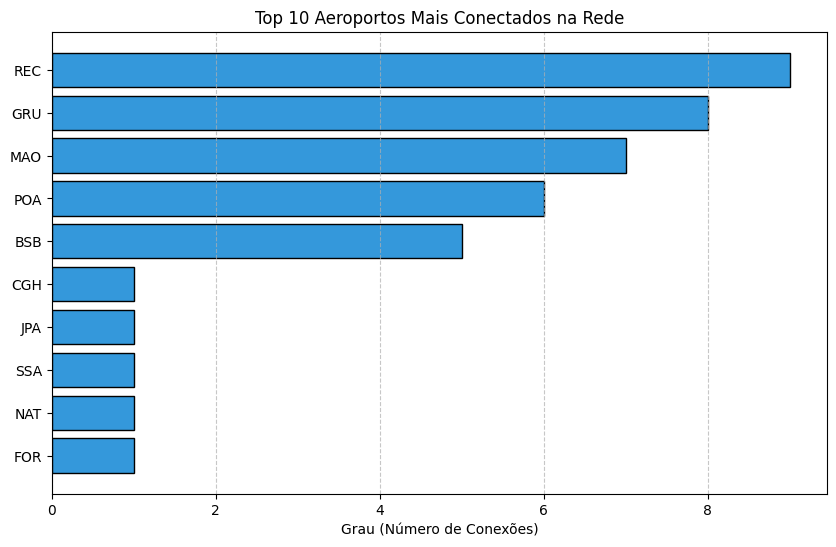
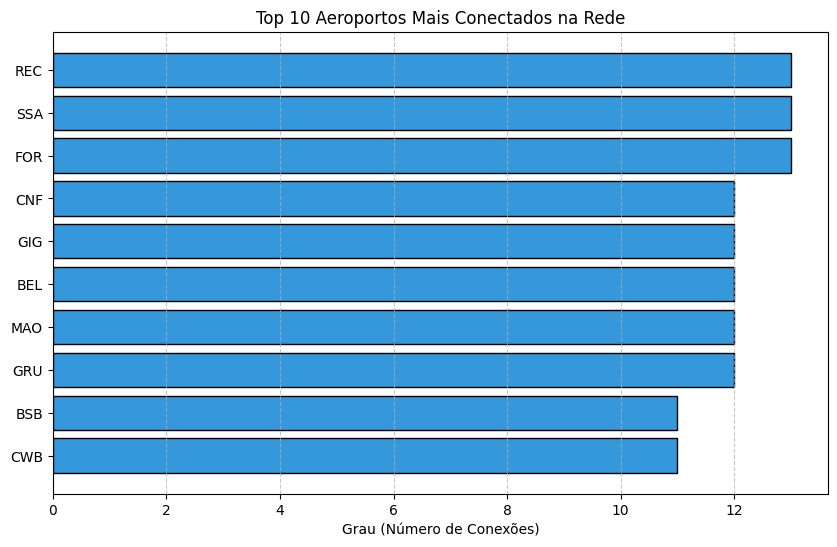
Ajuste para ter mais de um Hub por região
deixei o mais próximo da realidade da malha aérea brasileira

diff --git a/out/grafo_interativo.html b/out/grafo_interativo.html
@@ -353,8 +353,8 @@ function highlightFilter(filter) {
                   
 
                   // parsing and collecting nodes and edges from the python
-                  nodes = new vis.DataSet([{"color": "#e74c3c", "font": {"color": "white"}, "id": "REC", "label": "REC", "shape": "dot", "size": 38, "title": "Aeroporto: REC\nRegi\u00e3o: Nordeste\nConex\u00f5es: 9"}, {"color": "#e74c3c", "font": {"color": "white"}, "id": "SSA", "label": "SSA", "shape": "dot", "size": 22, "title": "Aeroporto: SSA\nRegi\u00e3o: Nordeste\nConex\u00f5es: 1"}, {"color": "#e74c3c", "font": {"color": "white"}, "id": "FOR", "label": "FOR", "shape": "dot", "size": 22, "title": "Aeroporto: FOR\nRegi\u00e3o: Nordeste\nConex\u00f5es: 1"}, {"color": "#e74c3c", "font": {"color": "white"}, "id": "NAT", "label": "NAT", "shape": "dot", "size": 22, "title": "Aeroporto: NAT\nRegi\u00e3o: Nordeste\nConex\u00f5es: 1"}, {"color": "#e74c3c", "font": {"color": "white"}, "id": "JPA", "label": "JPA", "shape": "dot", "size": 22, "title": "Aeroporto: JPA\nRegi\u00e3o: Nordeste\nConex\u00f5es: 1"}, {"color": "#3498db", "font": {"color": "white"}, "id": "GRU", "label": "GRU", "shape": "dot", "size": 36, "title": "Aeroporto: GRU\nRegi\u00e3o: Sudeste\nConex\u00f5es: 8"}, {"color": "#3498db", "font": {"color": "white"}, "id": "CGH", "label": "CGH", "shape": "dot", "size": 22, "title": "Aeroporto: CGH\nRegi\u00e3o: Sudeste\nConex\u00f5es: 1"}, {"color": "#3498db", "font": {"color": "white"}, "id": "GIG", "label": "GIG", "shape": "dot", "size": 22, "title": "Aeroporto: GIG\nRegi\u00e3o: Sudeste\nConex\u00f5es: 1"}, {"color": "#3498db", "font": {"color": "white"}, "id": "CNF", "label": "CNF", "shape": "dot", "size": 22, "title": "Aeroporto: CNF\nRegi\u00e3o: Sudeste\nConex\u00f5es: 1"}, {"color": "#3498db", "font": {"color": "white"}, "id": "VIX", "label": "VIX", "shape": "dot", "size": 22, "title": "Aeroporto: VIX\nRegi\u00e3o: Sudeste\nConex\u00f5es: 1"}, {"color": "#f1c40f", "font": {"color": "white"}, "id": "BSB", "label": "BSB", "shape": "dot", "size": 30, "title": "Aeroporto: BSB\nRegi\u00e3o: Centro-Oeste\nConex\u00f5es: 5"}, {"color": "#f1c40f", "font": {"color": "white"}, "id": "GYN", "label": "GYN", "shape": "dot", "size": 22, "title": "Aeroporto: GYN\nRegi\u00e3o: Centro-Oeste\nConex\u00f5es: 1"}, {"color": "#9b59b6", "font": {"color": "white"}, "id": "CWB", "label": "CWB", "shape": "dot", "size": 22, "title": "Aeroporto: CWB\nRegi\u00e3o: Sul\nConex\u00f5es: 1"}, {"color": "#9b59b6", "font": {"color": "white"}, "id": "FLN", "label": "FLN", "shape": "dot", "size": 22, "title": "Aeroporto: FLN\nRegi\u00e3o: Sul\nConex\u00f5es: 1"}, {"color": "#9b59b6", "font": {"color": "white"}, "id": "POA", "label": "POA", "shape": "dot", "size": 32, "title": "Aeroporto: POA\nRegi\u00e3o: Sul\nConex\u00f5es: 6"}, {"color": "#2ecc71", "font": {"color": "white"}, "id": "MAO", "label": "MAO", "shape": "dot", "size": 34, "title": "Aeroporto: MAO\nRegi\u00e3o: Norte\nConex\u00f5es: 7"}, {"color": "#2ecc71", "font": {"color": "white"}, "id": "BEL", "label": "BEL", "shape": "dot", "size": 22, "title": "Aeroporto: BEL\nRegi\u00e3o: Norte\nConex\u00f5es: 1"}, {"color": "#2ecc71", "font": {"color": "white"}, "id": "PVH", "label": "PVH", "shape": "dot", "size": 22, "title": "Aeroporto: PVH\nRegi\u00e3o: Norte\nConex\u00f5es: 1"}, {"color": "#2ecc71", "font": {"color": "white"}, "id": "RBR", "label": "RBR", "shape": "dot", "size": 22, "title": "Aeroporto: RBR\nRegi\u00e3o: Norte\nConex\u00f5es: 1"}, {"color": "#e74c3c", "font": {"color": "white"}, "id": "THE", "label": "THE", "shape": "dot", "size": 22, "title": "Aeroporto: THE\nRegi\u00e3o: Nordeste\nConex\u00f5es: 1"}]);
-                  edges = new vis.DataSet([{"arrows": "to", "color": "#555555", "from": "REC", "title": "675.29 km", "to": "SSA", "width": 1.5}, {"arrows": "to", "color": "#555555", "from": "REC", "title": "628.71 km", "to": "FOR", "width": 1.5}, {"arrows": "to", "color": "#555555", "from": "REC", "title": "253.3 km", "to": "NAT", "width": 1.5}, {"arrows": "to", "color": "#555555", "from": "REC", "title": "104.42 km", "to": "JPA", "width": 1.5}, {"arrows": "to", "color": "#555555", "from": "REC", "title": "934.34 km", "to": "THE", "width": 1.5}, {"arrows": "to", "color": "#555555", "from": "REC", "title": "2121.28 km", "to": "GRU", "width": 1.5}, {"arrows": "to", "color": "#555555", "from": "REC", "title": "2977.83 km", "to": "POA", "width": 1.5}, {"arrows": "to", "color": "#555555", "from": "REC", "title": "2832.74 km", "to": "MAO", "width": 1.5}, {"arrows": "to", "color": "#555555", "from": "REC", "title": "1656.77 km", "to": "BSB", "width": 1.5}, {"arrows": "to", "color": "#555555", "from": "SSA", "title": "675.29 km", "to": "REC", "width": 1.5}, {"arrows": "to", "color": "#555555", "from": "FOR", "title": "628.71 km", "to": "REC", "width": 1.5}, {"arrows": "to", "color": "#555555", "from": "NAT", "title": "253.3 km", "to": "REC", "width": 1.5}, {"arrows": "to", "color": "#555555", "from": "JPA", "title": "104.42 km", "to": "REC", "width": 1.5}, {"arrows": "to", "color": "#555555", "from": "GRU", "title": "28.42 km", "to": "CGH", "width": 1.5}, {"arrows": "to", "color": "#555555", "from": "GRU", "title": "337.52 km", "to": "GIG", "width": 1.5}, {"arrows": "to", "color": "#555555", "from": "GRU", "title": "493.59 km", "to": "CNF", "width": 1.5}, {"arrows": "to", "color": "#555555", "from": "GRU", "title": "743.68 km", "to": "VIX", "width": 1.5}, {"arrows": "to", "color": "#555555", "from": "GRU", "title": "2121.28 km", "to": "REC", "width": 1.5}, {"arrows": "to", "color": "#555555", "from": "GRU", "title": "852.54 km", "to": "POA", "width": 1.5}, {"arrows": "to", "color": "#555555", "from": "GRU", "title": "2689.83 km", "to": "MAO", "width": 1.5}, {"arrows": "to", "color": "#555555", "from": "GRU", "title": "855.33 km", "to": "BSB", "width": 1.5}, {"arrows": "to", "color": "#555555", "from": "CGH", "title": "28.42 km", "to": "GRU", "width": 1.5}, {"arrows": "to", "color": "#555555", "from": "GIG", "title": "337.52 km", "to": "GRU", "width": 1.5}, {"arrows": "to", "color": "#555555", "from": "CNF", "title": "493.59 km", "to": "GRU", "width": 1.5}, {"arrows": "to", "color": "#555555", "from": "VIX", "title": "743.68 km", "to": "GRU", "width": 1.5}, {"arrows": "to", "color": "#555555", "from": "BSB", "title": "164.71 km", "to": "GYN", "width": 1.5}, {"arrows": "to", "color": "#555555", "from": "BSB", "title": "1656.77 km", "to": "REC", "width": 1.5}, {"arrows": "to", "color": "#555555", "from": "BSB", "title": "855.33 km", "to": "GRU", "width": 1.5}, {"arrows": "to", "color": "#555555", "from": "BSB", "title": "1614.93 km", "to": "POA", "width": 1.5}, {"arrows": "to", "color": "#555555", "from": "BSB", "title": "1932.18 km", "to": "MAO", "width": 1.5}, {"arrows": "to", "color": "#555555", "from": "GYN", "title": "164.71 km", "to": "BSB", "width": 1.5}, {"arrows": "to", "color": "#555555", "from": "CWB", "title": "546.96 km", "to": "POA", "width": 1.5}, {"arrows": "to", "color": "#555555", "from": "FLN", "title": "365.17 km", "to": "POA", "width": 1.5}, {"arrows": "to", "color": "#555555", "from": "POA", "title": "546.96 km", "to": "CWB", "width": 1.5}, {"arrows": "to", "color": "#555555", "from": "POA", "title": "365.17 km", "to": "FLN", "width": 1.5}, {"arrows": "to", "color": "#555555", "from": "POA", "title": "2977.83 km", "to": "REC", "width": 1.5}, {"arrows": "to", "color": "#555555", "from": "POA", "title": "852.54 km", "to": "GRU", "width": 1.5}, {"arrows": "to", "color": "#555555", "from": "POA", "title": "3143.64 km", "to": "MAO", "width": 1.5}, {"arrows": "to", "color": "#555555", "from": "POA", "title": "1614.93 km", "to": "BSB", "width": 1.5}, {"arrows": "to", "color": "#555555", "from": "MAO", "title": "1292.35 km", "to": "BEL", "width": 1.5}, {"arrows": "to", "color": "#555555", "from": "MAO", "title": "761.34 km", "to": "PVH", "width": 1.5}, {"arrows": "to", "color": "#555555", "from": "MAO", "title": "1148.97 km", "to": "RBR", "width": 1.5}, {"arrows": "to", "color": "#555555", "from": "MAO", "title": "2832.74 km", "to": "REC", "width": 1.5}, {"arrows": "to", "color": "#555555", "from": "MAO", "title": "2689.83 km", "to": "GRU", "width": 1.5}, {"arrows": "to", "color": "#555555", "from": "MAO", "title": "3143.64 km", "to": "POA", "width": 1.5}, {"arrows": "to", "color": "#555555", "from": "MAO", "title": "1932.18 km", "to": "BSB", "width": 1.5}, {"arrows": "to", "color": "#555555", "from": "BEL", "title": "1292.35 km", "to": "MAO", "width": 1.5}, {"arrows": "to", "color": "#555555", "from": "PVH", "title": "761.34 km", "to": "MAO", "width": 1.5}, {"arrows": "to", "color": "#555555", "from": "RBR", "title": "1148.97 km", "to": "MAO", "width": 1.5}, {"arrows": "to", "color": "#555555", "from": "THE", "title": "934.34 km", "to": "REC", "width": 1.5}]);
+                  nodes = new vis.DataSet([{"color": "#e74c3c", "font": {"color": "white"}, "id": "REC", "label": "REC", "shape": "dot", "size": 46, "title": "Aeroporto: REC\nRegi\u00e3o: Nordeste\nConex\u00f5es: 13"}, {"color": "#e74c3c", "font": {"color": "white"}, "id": "SSA", "label": "SSA", "shape": "dot", "size": 46, "title": "Aeroporto: SSA\nRegi\u00e3o: Nordeste\nConex\u00f5es: 13"}, {"color": "#e74c3c", "font": {"color": "white"}, "id": "FOR", "label": "FOR", "shape": "dot", "size": 46, "title": "Aeroporto: FOR\nRegi\u00e3o: Nordeste\nConex\u00f5es: 13"}, {"color": "#e74c3c", "font": {"color": "white"}, "id": "NAT", "label": "NAT", "shape": "dot", "size": 26, "title": "Aeroporto: NAT\nRegi\u00e3o: Nordeste\nConex\u00f5es: 3"}, {"color": "#e74c3c", "font": {"color": "white"}, "id": "JPA", "label": "JPA", "shape": "dot", "size": 26, "title": "Aeroporto: JPA\nRegi\u00e3o: Nordeste\nConex\u00f5es: 3"}, {"color": "#3498db", "font": {"color": "white"}, "id": "GRU", "label": "GRU", "shape": "dot", "size": 44, "title": "Aeroporto: GRU\nRegi\u00e3o: Sudeste\nConex\u00f5es: 12"}, {"color": "#3498db", "font": {"color": "white"}, "id": "CGH", "label": "CGH", "shape": "dot", "size": 26, "title": "Aeroporto: CGH\nRegi\u00e3o: Sudeste\nConex\u00f5es: 3"}, {"color": "#3498db", "font": {"color": "white"}, "id": "GIG", "label": "GIG", "shape": "dot", "size": 44, "title": "Aeroporto: GIG\nRegi\u00e3o: Sudeste\nConex\u00f5es: 12"}, {"color": "#3498db", "font": {"color": "white"}, "id": "CNF", "label": "CNF", "shape": "dot", "size": 44, "title": "Aeroporto: CNF\nRegi\u00e3o: Sudeste\nConex\u00f5es: 12"}, {"color": "#3498db", "font": {"color": "white"}, "id": "VIX", "label": "VIX", "shape": "dot", "size": 26, "title": "Aeroporto: VIX\nRegi\u00e3o: Sudeste\nConex\u00f5es: 3"}, {"color": "#f1c40f", "font": {"color": "white"}, "id": "BSB", "label": "BSB", "shape": "dot", "size": 42, "title": "Aeroporto: BSB\nRegi\u00e3o: Centro-Oeste\nConex\u00f5es: 11"}, {"color": "#f1c40f", "font": {"color": "white"}, "id": "GYN", "label": "GYN", "shape": "dot", "size": 22, "title": "Aeroporto: GYN\nRegi\u00e3o: Centro-Oeste\nConex\u00f5es: 1"}, {"color": "#9b59b6", "font": {"color": "white"}, "id": "CWB", "label": "CWB", "shape": "dot", "size": 42, "title": "Aeroporto: CWB\nRegi\u00e3o: Sul\nConex\u00f5es: 11"}, {"color": "#9b59b6", "font": {"color": "white"}, "id": "FLN", "label": "FLN", "shape": "dot", "size": 24, "title": "Aeroporto: FLN\nRegi\u00e3o: Sul\nConex\u00f5es: 2"}, {"color": "#9b59b6", "font": {"color": "white"}, "id": "POA", "label": "POA", "shape": "dot", "size": 42, "title": "Aeroporto: POA\nRegi\u00e3o: Sul\nConex\u00f5es: 11"}, {"color": "#2ecc71", "font": {"color": "white"}, "id": "MAO", "label": "MAO", "shape": "dot", "size": 44, "title": "Aeroporto: MAO\nRegi\u00e3o: Norte\nConex\u00f5es: 12"}, {"color": "#2ecc71", "font": {"color": "white"}, "id": "BEL", "label": "BEL", "shape": "dot", "size": 44, "title": "Aeroporto: BEL\nRegi\u00e3o: Norte\nConex\u00f5es: 12"}, {"color": "#2ecc71", "font": {"color": "white"}, "id": "PVH", "label": "PVH", "shape": "dot", "size": 24, "title": "Aeroporto: PVH\nRegi\u00e3o: Norte\nConex\u00f5es: 2"}, {"color": "#2ecc71", "font": {"color": "white"}, "id": "RBR", "label": "RBR", "shape": "dot", "size": 24, "title": "Aeroporto: RBR\nRegi\u00e3o: Norte\nConex\u00f5es: 2"}, {"color": "#e74c3c", "font": {"color": "white"}, "id": "THE", "label": "THE", "shape": "dot", "size": 26, "title": "Aeroporto: THE\nRegi\u00e3o: Nordeste\nConex\u00f5es: 3"}]);
+                  edges = new vis.DataSet([{"arrows": "to", "color": "#555555", "from": "REC", "title": "266.71 km", "to": "NAT", "width": 1.5}, {"arrows": "to", "color": "#555555", "from": "REC", "title": "108.83 km", "to": "JPA", "width": 1.5}, {"arrows": "to", "color": "#555555", "from": "REC", "title": "936.95 km", "to": "THE", "width": 1.5}, {"arrows": "to", "color": "#555555", "from": "REC", "title": "2100.82 km", "to": "GRU", "width": 1.5}, {"arrows": "to", "color": "#555555", "from": "REC", "title": "649.46 km", "to": "SSA", "width": 1.5}, {"arrows": "to", "color": "#555555", "from": "REC", "title": "627.12 km", "to": "FOR", "width": 1.5}, {"arrows": "to", "color": "#555555", "from": "REC", "title": "1677.75 km", "to": "BEL", "width": 1.5}, {"arrows": "to", "color": "#555555", "from": "REC", "title": "1859.22 km", "to": "GIG", "width": 1.5}, {"arrows": "to", "color": "#555555", "from": "REC", "title": "2453.9 km", "to": "CWB", "width": 1.5}, {"arrows": "to", "color": "#555555", "from": "REC", "title": "2836.85 km", "to": "MAO", "width": 1.5}, {"arrows": "to", "color": "#555555", "from": "REC", "title": "1607.74 km", "to": "CNF", "width": 1.5}, {"arrows": "to", "color": "#555555", "from": "REC", "title": "1654.1 km", "to": "BSB", "width": 1.5}, {"arrows": "to", "color": "#555555", "from": "REC", "title": "2962.75 km", "to": "POA", "width": 1.5}, {"arrows": "to", "color": "#555555", "from": "SSA", "title": "858.17 km", "to": "NAT", "width": 1.5}, {"arrows": "to", "color": "#555555", "from": "SSA", "title": "739.98 km", "to": "JPA", "width": 1.5}, {"arrows": "to", "color": "#555555", "from": "SSA", "title": "1002.66 km", "to": "THE", "width": 1.5}, {"arrows": "to", "color": "#555555", "from": "SSA", "title": "1451.36 km", "to": "GRU", "width": 1.5}, {"arrows": "to", "color": "#555555", "from": "SSA", "title": "1016.0 km", "to": "FOR", "width": 1.5}, {"arrows": "to", "color": "#555555", "from": "SSA", "title": "1700.28 km", "to": "BEL", "width": 1.5}, {"arrows": "to", "color": "#555555", "from": "SSA", "title": "1217.24 km", "to": "GIG", "width": 1.5}, {"arrows": "to", "color": "#555555", "from": "SSA", "title": "1804.74 km", "to": "CWB", "width": 1.5}, {"arrows": "to", "color": "#555555", "from": "SSA", "title": "2628.74 km", "to": "MAO", "width": 1.5}, {"arrows": "to", "color": "#555555", "from": "SSA", "title": "649.46 km", "to": "REC", "width": 1.5}, {"arrows": "to", "color": "#555555", "from": "SSA", "title": "958.74 km", "to": "CNF", "width": 1.5}, {"arrows": "to", "color": "#555555", "from": "SSA", "title": "1083.74 km", "to": "BSB", "width": 1.5}, {"arrows": "to", "color": "#555555", "from": "SSA", "title": "2313.79 km", "to": "POA", "width": 1.5}, {"arrows": "to", "color": "#555555", "from": "FOR", "title": "414.93 km", "to": "NAT", "width": 1.5}, {"arrows": "to", "color": "#555555", "from": "FOR", "title": "545.68 km", "to": "JPA", "width": 1.5}, {"arrows": "to", "color": "#555555", "from": "FOR", "title": "496.78 km", "to": "THE", "width": 1.5}, {"arrows": "to", "color": "#555555", "from": "FOR", "title": "2346.62 km", "to": "GRU", "width": 1.5}, {"arrows": "to", "color": "#555555", "from": "FOR", "title": "1016.0 km", "to": "SSA", "width": 1.5}, {"arrows": "to", "color": "#555555", "from": "FOR", "title": "1136.08 km", "to": "BEL", "width": 1.5}, {"arrows": "to", "color": "#555555", "from": "FOR", "title": "2176.55 km", "to": "GIG", "width": 1.5}, {"arrows": "to", "color": "#555555", "from": "FOR", "title": "2672.63 km", "to": "CWB", "width": 1.5}, {"arrows": "to", "color": "#555555", "from": "FOR", "title": "2390.01 km", "to": "MAO", "width": 1.5}, {"arrows": "to", "color": "#555555", "from": "FOR", "title": "627.12 km", "to": "REC", "width": 1.5}, {"arrows": "to", "color": "#555555", "from": "FOR", "title": "1858.44 km", "to": "CNF", "width": 1.5}, {"arrows": "to", "color": "#555555", "from": "FOR", "title": "1691.78 km", "to": "BSB", "width": 1.5}, {"arrows": "to", "color": "#555555", "from": "FOR", "title": "3204.09 km", "to": "POA", "width": 1.5}, {"arrows": "to", "color": "#555555", "from": "NAT", "title": "266.71 km", "to": "REC", "width": 1.5}, {"arrows": "to", "color": "#555555", "from": "NAT", "title": "858.17 km", "to": "SSA", "width": 1.5}, {"arrows": "to", "color": "#555555", "from": "NAT", "title": "414.93 km", "to": "FOR", "width": 1.5}, {"arrows": "to", "color": "#555555", "from": "JPA", "title": "108.83 km", "to": "REC", "width": 1.5}, {"arrows": "to", "color": "#555555", "from": "JPA", "title": "739.98 km", "to": "SSA", "width": 1.5}, {"arrows": "to", "color": "#555555", "from": "JPA", "title": "545.68 km", "to": "FOR", "width": 1.5}, {"arrows": "to", "color": "#555555", "from": "GRU", "title": "28.26 km", "to": "CGH", "width": 1.5}, {"arrows": "to", "color": "#555555", "from": "GRU", "title": "729.6 km", "to": "VIX", "width": 1.5}, {"arrows": "to", "color": "#555555", "from": "GRU", "title": "1451.36 km", "to": "SSA", "width": 1.5}, {"arrows": "to", "color": "#555555", "from": "GRU", "title": "2346.62 km", "to": "FOR", "width": 1.5}, {"arrows": "to", "color": "#555555", "from": "GRU", "title": "2461.43 km", "to": "BEL", "width": 1.5}, {"arrows": "to", "color": "#555555", "from": "GRU", "title": "336.79 km", "to": "GIG", "width": 1.5}, {"arrows": "to", "color": "#555555", "from": "GRU", "title": "358.95 km", "to": "CWB", "width": 1.5}, {"arrows": "to", "color": "#555555", "from": "GRU", "title": "2697.86 km", "to": "MAO", "width": 1.5}, {"arrows": "to", "color": "#555555", "from": "GRU", "title": "2100.82 km", "to": "REC", "width": 1.5}, {"arrows": "to", "color": "#555555", "from": "GRU", "title": "496.46 km", "to": "CNF", "width": 1.5}, {"arrows": "to", "color": "#555555", "from": "GRU", "title": "854.8 km", "to": "BSB", "width": 1.5}, {"arrows": "to", "color": "#555555", "from": "GRU", "title": "865.52 km", "to": "POA", "width": 1.5}, {"arrows": "to", "color": "#555555", "from": "CGH", "title": "28.26 km", "to": "GRU", "width": 1.5}, {"arrows": "to", "color": "#555555", "from": "CGH", "title": "359.67 km", "to": "GIG", "width": 1.5}, {"arrows": "to", "color": "#555555", "from": "CGH", "title": "524.36 km", "to": "CNF", "width": 1.5}, {"arrows": "to", "color": "#555555", "from": "GIG", "title": "359.67 km", "to": "CGH", "width": 1.5}, {"arrows": "to", "color": "#555555", "from": "GIG", "title": "417.72 km", "to": "VIX", "width": 1.5}, {"arrows": "to", "color": "#555555", "from": "GIG", "title": "336.79 km", "to": "GRU", "width": 1.5}, {"arrows": "to", "color": "#555555", "from": "GIG", "title": "1217.24 km", "to": "SSA", "width": 1.5}, {"arrows": "to", "color": "#555555", "from": "GIG", "title": "2176.55 km", "to": "FOR", "width": 1.5}, {"arrows": "to", "color": "#555555", "from": "GIG", "title": "2448.32 km", "to": "BEL", "width": 1.5}, {"arrows": "to", "color": "#555555", "from": "GIG", "title": "672.38 km", "to": "CWB", "width": 1.5}, {"arrows": "to", "color": "#555555", "from": "GIG", "title": "2847.97 km", "to": "MAO", "width": 1.5}, {"arrows": "to", "color": "#555555", "from": "GIG", "title": "1859.22 km", "to": "REC", "width": 1.5}, {"arrows": "to", "color": "#555555", "from": "GIG", "title": "362.03 km", "to": "CNF", "width": 1.5}, {"arrows": "to", "color": "#555555", "from": "GIG", "title": "913.92 km", "to": "BSB", "width": 1.5}, {"arrows": "to", "color": "#555555", "from": "GIG", "title": "1121.96 km", "to": "POA", "width": 1.5}, {"arrows": "to", "color": "#555555", "from": "CNF", "title": "524.36 km", "to": "CGH", "width": 1.5}, {"arrows": "to", "color": "#555555", "from": "CNF", "title": "391.62 km", "to": "VIX", "width": 1.5}, {"arrows": "to", "color": "#555555", "from": "CNF", "title": "496.46 km", "to": "GRU", "width": 1.5}, {"arrows": "to", "color": "#555555", "from": "CNF", "title": "958.74 km", "to": "SSA", "width": 1.5}, {"arrows": "to", "color": "#555555", "from": "CNF", "title": "1858.44 km", "to": "FOR", "width": 1.5}, {"arrows": "to", "color": "#555555", "from": "CNF", "title": "2086.55 km", "to": "BEL", "width": 1.5}, {"arrows": "to", "color": "#555555", "from": "CNF", "title": "362.03 km", "to": "GIG", "width": 1.5}, {"arrows": "to", "color": "#555555", "from": "CNF", "title": "846.18 km", "to": "CWB", "width": 1.5}, {"arrows": "to", "color": "#555555", "from": "CNF", "title": "2539.9 km", "to": "MAO", "width": 1.5}, {"arrows": "to", "color": "#555555", "from": "CNF", "title": "1607.74 km", "to": "REC", "width": 1.5}, {"arrows": "to", "color": "#555555", "from": "CNF", "title": "590.86 km", "to": "BSB", "width": 1.5}, {"arrows": "to", "color": "#555555", "from": "CNF", "title": "1361.98 km", "to": "POA", "width": 1.5}, {"arrows": "to", "color": "#555555", "from": "VIX", "title": "729.6 km", "to": "GRU", "width": 1.5}, {"arrows": "to", "color": "#555555", "from": "VIX", "title": "417.72 km", "to": "GIG", "width": 1.5}, {"arrows": "to", "color": "#555555", "from": "VIX", "title": "391.62 km", "to": "CNF", "width": 1.5}, {"arrows": "to", "color": "#555555", "from": "BSB", "title": "162.62 km", "to": "GYN", "width": 1.5}, {"arrows": "to", "color": "#555555", "from": "BSB", "title": "854.8 km", "to": "GRU", "width": 1.5}, {"arrows": "to", "color": "#555555", "from": "BSB", "title": "1083.74 km", "to": "SSA", "width": 1.5}, {"arrows": "to", "color": "#555555", "from": "BSB", "title": "1691.78 km", "to": "FOR", "width": 1.5}, {"arrows": "to", "color": "#555555", "from": "BSB", "title": "1611.81 km", "to": "BEL", "width": 1.5}, {"arrows": "to", "color": "#555555", "from": "BSB", "title": "913.92 km", "to": "GIG", "width": 1.5}, {"arrows": "to", "color": "#555555", "from": "BSB", "title": "1082.28 km", "to": "CWB", "width": 1.5}, {"arrows": "to", "color": "#555555", "from": "BSB", "title": "1949.05 km", "to": "MAO", "width": 1.5}, {"arrows": "to", "color": "#555555", "from": "BSB", "title": "1654.1 km", "to": "REC", "width": 1.5}, {"arrows": "to", "color": "#555555", "from": "BSB", "title": "590.86 km", "to": "CNF", "width": 1.5}, {"arrows": "to", "color": "#555555", "from": "BSB", "title": "1605.15 km", "to": "POA", "width": 1.5}, {"arrows": "to", "color": "#555555", "from": "GYN", "title": "162.62 km", "to": "BSB", "width": 1.5}, {"arrows": "to", "color": "#555555", "from": "CWB", "title": "245.47 km", "to": "FLN", "width": 1.5}, {"arrows": "to", "color": "#555555", "from": "CWB", "title": "358.95 km", "to": "GRU", "width": 1.5}, {"arrows": "to", "color": "#555555", "from": "CWB", "title": "1804.74 km", "to": "SSA", "width": 1.5}, {"arrows": "to", "color": "#555555", "from": "CWB", "title": "2672.63 km", "to": "FOR", "width": 1.5}, {"arrows": "to", "color": "#555555", "from": "CWB", "title": "2686.16 km", "to": "BEL", "width": 1.5}, {"arrows": "to", "color": "#555555", "from": "CWB", "title": "672.38 km", "to": "GIG", "width": 1.5}, {"arrows": "to", "color": "#555555", "from": "CWB", "title": "2758.85 km", "to": "MAO", "width": 1.5}, {"arrows": "to", "color": "#555555", "from": "CWB", "title": "2453.9 km", "to": "REC", "width": 1.5}, {"arrows": "to", "color": "#555555", "from": "CWB", "title": "846.18 km", "to": "CNF", "width": 1.5}, {"arrows": "to", "color": "#555555", "from": "CWB", "title": "1082.28 km", "to": "BSB", "width": 1.5}, {"arrows": "to", "color": "#555555", "from": "CWB", "title": "533.68 km", "to": "POA", "width": 1.5}, {"arrows": "to", "color": "#555555", "from": "FLN", "title": "363.06 km", "to": "POA", "width": 1.5}, {"arrows": "to", "color": "#555555", "from": "FLN", "title": "245.47 km", "to": "CWB", "width": 1.5}, {"arrows": "to", "color": "#555555", "from": "POA", "title": "363.06 km", "to": "FLN", "width": 1.5}, {"arrows": "to", "color": "#555555", "from": "POA", "title": "865.52 km", "to": "GRU", "width": 1.5}, {"arrows": "to", "color": "#555555", "from": "POA", "title": "2313.79 km", "to": "SSA", "width": 1.5}, {"arrows": "to", "color": "#555555", "from": "POA", "title": "3204.09 km", "to": "FOR", "width": 1.5}, {"arrows": "to", "color": "#555555", "from": "POA", "title": "3193.92 km", "to": "BEL", "width": 1.5}, {"arrows": "to", "color": "#555555", "from": "POA", "title": "1121.96 km", "to": "GIG", "width": 1.5}, {"arrows": "to", "color": "#555555", "from": "POA", "title": "533.68 km", "to": "CWB", "width": 1.5}, {"arrows": "to", "color": "#555555", "from": "POA", "title": "3140.19 km", "to": "MAO", "width": 1.5}, {"arrows": "to", "color": "#555555", "from": "POA", "title": "2962.75 km", "to": "REC", "width": 1.5}, {"arrows": "to", "color": "#555555", "from": "POA", "title": "1361.98 km", "to": "CNF", "width": 1.5}, {"arrows": "to", "color": "#555555", "from": "POA", "title": "1605.15 km", "to": "BSB", "width": 1.5}, {"arrows": "to", "color": "#555555", "from": "MAO", "title": "761.11 km", "to": "PVH", "width": 1.5}, {"arrows": "to", "color": "#555555", "from": "MAO", "title": "1152.31 km", "to": "RBR", "width": 1.5}, {"arrows": "to", "color": "#555555", "from": "MAO", "title": "2697.86 km", "to": "GRU", "width": 1.5}, {"arrows": "to", "color": "#555555", "from": "MAO", "title": "2628.74 km", "to": "SSA", "width": 1.5}, {"arrows": "to", "color": "#555555", "from": "MAO", "title": "2390.01 km", "to": "FOR", "width": 1.5}, {"arrows": "to", "color": "#555555", "from": "MAO", "title": "1299.19 km", "to": "BEL", "width": 1.5}, {"arrows": "to", "color": "#555555", "from": "MAO", "title": "2847.97 km", "to": "GIG", "width": 1.5}, {"arrows": "to", "color": "#555555", "from": "MAO", "title": "2758.85 km", "to": "CWB", "width": 1.5}, {"arrows": "to", "color": "#555555", "from": "MAO", "title": "2836.85 km", "to": "REC", "width": 1.5}, {"arrows": "to", "color": "#555555", "from": "MAO", "title": "2539.9 km", "to": "CNF", "width": 1.5}, {"arrows": "to", "color": "#555555", "from": "MAO", "title": "1949.05 km", "to": "BSB", "width": 1.5}, {"arrows": "to", "color": "#555555", "from": "MAO", "title": "3140.19 km", "to": "POA", "width": 1.5}, {"arrows": "to", "color": "#555555", "from": "BEL", "title": "1891.36 km", "to": "PVH", "width": 1.5}, {"arrows": "to", "color": "#555555", "from": "BEL", "title": "2345.17 km", "to": "RBR", "width": 1.5}, {"arrows": "to", "color": "#555555", "from": "BEL", "title": "2461.43 km", "to": "GRU", "width": 1.5}, {"arrows": "to", "color": "#555555", "from": "BEL", "title": "1700.28 km", "to": "SSA", "width": 1.5}, {"arrows": "to", "color": "#555555", "from": "BEL", "title": "1136.08 km", "to": "FOR", "width": 1.5}, {"arrows": "to", "color": "#555555", "from": "BEL", "title": "2448.32 km", "to": "GIG", "width": 1.5}, {"arrows": "to", "color": "#555555", "from": "BEL", "title": "2686.16 km", "to": "CWB", "width": 1.5}, {"arrows": "to", "color": "#555555", "from": "BEL", "title": "1299.19 km", "to": "MAO", "width": 1.5}, {"arrows": "to", "color": "#555555", "from": "BEL", "title": "1677.75 km", "to": "REC", "width": 1.5}, {"arrows": "to", "color": "#555555", "from": "BEL", "title": "2086.55 km", "to": "CNF", "width": 1.5}, {"arrows": "to", "color": "#555555", "from": "BEL", "title": "1611.81 km", "to": "BSB", "width": 1.5}, {"arrows": "to", "color": "#555555", "from": "BEL", "title": "3193.92 km", "to": "POA", "width": 1.5}, {"arrows": "to", "color": "#555555", "from": "PVH", "title": "761.11 km", "to": "MAO", "width": 1.5}, {"arrows": "to", "color": "#555555", "from": "PVH", "title": "1891.36 km", "to": "BEL", "width": 1.5}, {"arrows": "to", "color": "#555555", "from": "RBR", "title": "1152.31 km", "to": "MAO", "width": 1.5}, {"arrows": "to", "color": "#555555", "from": "RBR", "title": "2345.17 km", "to": "BEL", "width": 1.5}, {"arrows": "to", "color": "#555555", "from": "THE", "title": "936.95 km", "to": "REC", "width": 1.5}, {"arrows": "to", "color": "#555555", "from": "THE", "title": "1002.66 km", "to": "SSA", "width": 1.5}, {"arrows": "to", "color": "#555555", "from": "THE", "title": "496.78 km", "to": "FOR", "width": 1.5}]);
 
                   nodeColors = {};
                   allNodes = nodes.get({ returnType: "Object" });

diff --git a/out/arvore_percurso.html b/out/arvore_percurso.html
@@ -282,8 +282,8 @@ function highlightFilter(filter) {
                   
 
                   // parsing and collecting nodes and edges from the python
-                  nodes = new vis.DataSet([{"color": "#e74c3c", "font": {"color": "white"}, "id": "REC", "label": "REC", "shape": "dot", "size": 25, "title": "Regi\u00e3o: Nordeste"}, {"color": "#3498db", "font": {"color": "white"}, "id": "GRU", "label": "GRU", "shape": "dot", "size": 25, "title": "Regi\u00e3o: Sudeste"}, {"color": "#9b59b6", "font": {"color": "white"}, "id": "POA", "label": "POA", "shape": "dot", "size": 25, "title": "Regi\u00e3o: Sul"}, {"color": "#2ecc71", "font": {"color": "white"}, "id": "MAO", "label": "MAO", "shape": "dot", "size": 25, "title": "Regi\u00e3o: Norte"}]);
-                  edges = new vis.DataSet([{"arrows": "to", "color": "#27ae60", "from": "REC", "to": "GRU", "width": 4}, {"arrows": "to", "color": "#27ae60", "from": "GRU", "to": "POA", "width": 4}, {"arrows": "to", "color": "#3498db", "from": "MAO", "to": "GRU", "width": 4}]);
+                  nodes = new vis.DataSet([{"color": "#e74c3c", "font": {"color": "white"}, "id": "REC", "label": "REC", "shape": "dot", "size": 25, "title": "Regi\u00e3o: Nordeste"}, {"color": "#9b59b6", "font": {"color": "white"}, "id": "POA", "label": "POA", "shape": "dot", "size": 25, "title": "Regi\u00e3o: Sul"}, {"color": "#2ecc71", "font": {"color": "white"}, "id": "MAO", "label": "MAO", "shape": "dot", "size": 25, "title": "Regi\u00e3o: Norte"}, {"color": "#3498db", "font": {"color": "white"}, "id": "GRU", "label": "GRU", "shape": "dot", "size": 25, "title": "Regi\u00e3o: Sudeste"}]);
+                  edges = new vis.DataSet([{"arrows": "to", "color": "#27ae60", "from": "REC", "to": "POA", "width": 4}, {"arrows": "to", "color": "#3498db", "from": "MAO", "to": "GRU", "width": 4}]);
 
                   nodeColors = {};
                   allNodes = nodes.get({ returnType: "Object" });

diff --git a/src/graphs/io.py b/src/graphs/io.py
@@ -1,5 +1,81 @@
 import csv
+import math
 from src.graphs.graph import Graph
+
+# Coordenadas reais aproximadas (Lat, Lon) para calcular os pesos (km)
+COORDS = {
+    'REC': (-8.1267, -34.9230), 'SSA': (-12.9111, -38.3316), 'FOR': (-3.7761, -38.5322),
+    'NAT': (-5.7688, -35.3661), 'JPA': (-7.1483, -34.9502), 'THE': (-5.0594, -42.8244),
+    'GRU': (-23.4355, -46.4730), 'CGH': (-23.6261, -46.6564), 'GIG': (-22.8100, -43.2505),
+    'CNF': (-19.6244, -43.9719), 'VIX': (-20.2581, -40.2864), 'BSB': (-15.8697, -47.9208),
+    'GYN': (-16.6325, -49.2205), 'CWB': (-25.5327, -49.1699), 'FLN': (-27.6701, -48.5525),
+    'POA': (-29.9939, -51.1711), 'MAO': (-3.0358, -60.0519), 'BEL': (-1.3847, -48.4762),
+    'PVH': (-8.7136, -63.8966), 'RBR': (-9.8683, -67.8980)
+}
+
+# A nova definição exigida pela professora
+HUBS_POR_REGIAO = {
+    'Sudeste': ['GRU', 'GIG', 'CNF'],
+    'Centro-Oeste': ['BSB'],
+    'Nordeste': ['REC', 'SSA', 'FOR'],
+    'Sul': ['POA', 'CWB'],
+    'Norte': ['MAO', 'BEL']
+}
+TODOS_HUBS = {hub for hubs in HUBS_POR_REGIAO.values() for hub in hubs}
+
+def haversine(iata1, iata2):
+    """Calcula a distância em KM entre dois aeroportos."""
+    lat1, lon1 = COORDS[iata1]
+    lat2, lon2 = COORDS[iata2]
+    R = 6371.0 # Raio da Terra em KM
+    dlat, dlon = math.radians(lat2 - lat1), math.radians(lon2 - lon1)
+    a = math.sin(dlat/2)**2 + math.cos(math.radians(lat1)) * math.cos(math.radians(lat2)) * math.sin(dlon/2)**2
+    return round(2 * R * math.atan2(math.sqrt(a), math.sqrt(1 - a)), 2)
+
+def gerar_malha_csv(caminho_aeroportos='data/aeroportos_data.csv', caminho_saida='data/adjacencias_aeroportos.csv'):
+    aeroportos = []
+    with open(caminho_aeroportos, mode='r', encoding='utf-8') as f:
+        reader = csv.DictReader(f)
+        for row in reader:
+            aeroportos.append(row)
+
+    arestas = set()
+    dados_arestas = []
+
+    def add_aresta(o, d, tipo, just):
+        par = frozenset([o, d])
+        if par not in arestas and o != d:
+            arestas.add(par)
+            peso = haversine(o, d)
+            dados_arestas.append({'origem': o, 'destino': d, 'tipo_conexao': tipo, 'justificativa': just, 'peso': peso})
+
+    # 1. Conectar aeroportos Regionais aos Hubs da SUA região
+    for aero in aeroportos:
+        iata, regiao = aero['iata'], aero['regiao']
+        if iata not in TODOS_HUBS:
+            for hub in HUBS_POR_REGIAO.get(regiao, []):
+                add_aresta(iata, hub, 'regional', 'Conexao com hub regional')
+
+    # 2. Conectar Hubs entre si
+    lista_hubs = list(TODOS_HUBS)
+    for i in range(len(lista_hubs)):
+        for j in range(i + 1, len(lista_hubs)):
+            hub1, hub2 = lista_hubs[i], lista_hubs[j]
+            regiao1 = next(r for r, hs in HUBS_POR_REGIAO.items() if hub1 in hs)
+            regiao2 = next(r for r, hs in HUBS_POR_REGIAO.items() if hub2 in hs)
+            
+            if regiao1 == regiao2:
+                add_aresta(hub1, hub2, 'hub_intra', 'Conexao entre hubs da mesma regiao')
+            else:
+                add_aresta(hub1, hub2, 'nacional', 'Conexao nacional entre hubs')
+
+    # Salvar o novo CSV
+    with open(caminho_saida, mode='w', encoding='utf-8', newline='') as f:
+        writer = csv.DictWriter(f, fieldnames=['origem', 'destino', 'tipo_conexao', 'justificativa', 'peso'])
+        writer.writeheader()
+        writer.writerows(dados_arestas)
+        
+    print(f"✅ Novo arquivo de malha gerado: {caminho_saida}")
 
 def load_graph(caminho_aeroportos='data/aeroportos_data.csv', caminho_adjacencias='data/adjacencias_aeroportos.csv'):
     g = Graph()

diff --git a/src/solve.py b/src/solve.py
@@ -1,7 +1,7 @@
 import os
 import json
 import csv
-from src.graphs.io import load_graph
+from src.graphs.io import load_graph , gerar_malha_csv
 from src.graphs.algorithms import dijkstra
 from src.viz import gerar_arvore_percurso, gerar_graficos_analiticos, gerar_grafo_completo
 
@@ -9,7 +9,7 @@ def exportar_metricas(grafo):
     os.makedirs('out', exist_ok=True)
     todos_nos = grafo.get_nodes()
     
-    # 1. Global
+    # 1. Global 
     metricas_globais = {"ordem": grafo.get_order(), "tamanho": grafo.get_size(), "densidade": round(grafo.get_density(), 4)}
     with open('out/global.json', 'w', encoding='utf-8') as f: json.dump(metricas_globais, f, indent=4)
         
@@ -97,6 +97,8 @@ def calcular_rotas_dijkstra(grafo):
 
 def main():
     print("✈  Iniciando processamento do Grafo...")
+    # Adicionamos esta linha: O código agora constrói as arestas automaticamente!
+    gerar_malha_csv()
     grafo = load_graph()
     
     exportar_metricas(grafo)
